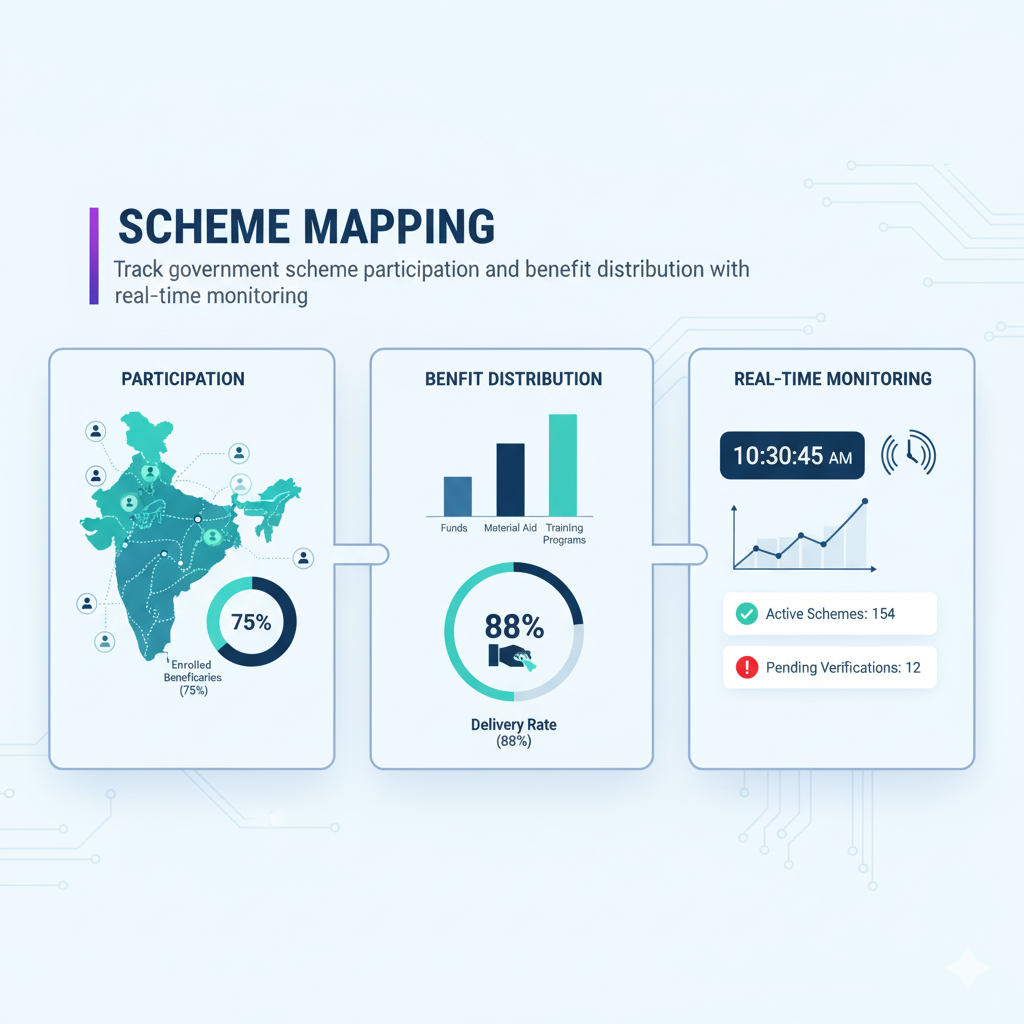
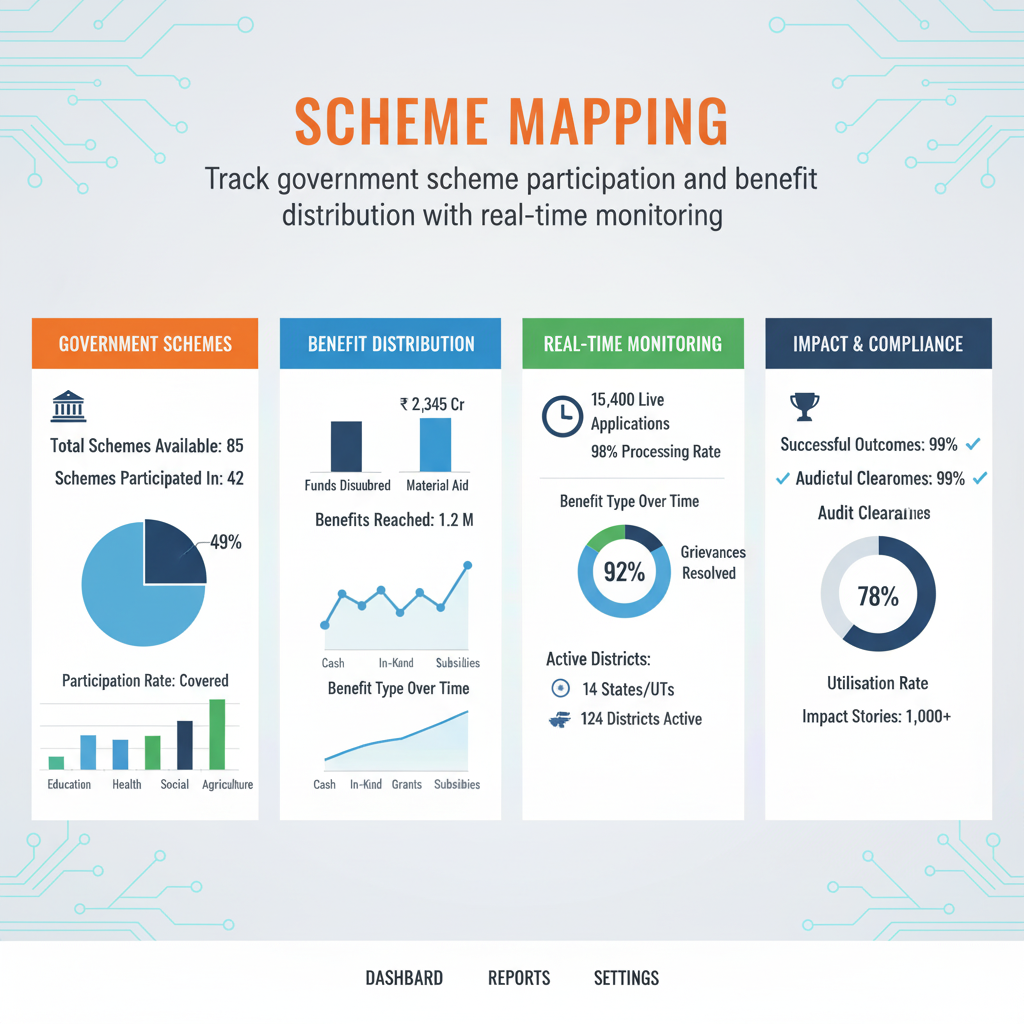
Add interactive image gallery with feature visualizations
Introduces an `InteractiveGallery` component to `src/pages/Index.tsx`, displaying images and descriptions for features like "Campus Events & Interactive Map" and "Scheme Mapping Dashboard". Includes new images and a component definition for `InteractiveGallery.tsx`.

Replit-Commit-Author: Agent
Replit-Commit-Session-Id: 71f993bb-9128-42ce-839f-6b6f3d9e548e
Replit-Commit-Checkpoint-Type: full_checkpoint
Replit-Commit-Screenshot-Url: https://storage.googleapis.com/screenshot-production-us-central1/73bd11d9-ef9e-4923-ab9e-70b18583f109/71f993bb-9128-42ce-839f-6b6f3d9e548e/cB6vz3G

diff --git a/src/components/InteractiveGallery.tsx b/src/components/InteractiveGallery.tsx
@@ -1,0 +1,142 @@
+import { useState } from "react";
+import { Dialog, DialogContent, DialogTitle } from "@/components/ui/dialog";
+import { Card, CardContent } from "@/components/ui/card";
+import { motion } from "framer-motion";
+import { Maximize2, MapPin, BarChart } from "lucide-react";
+
+const galleryItems = [
+  {
+    id: 1,
+    title: "Campus Events & Interactive Map",
+    description: "Navigate through campus events, library timings, and department success metrics with an interactive map interface",
+    image: "/campus-events.png",
+    icon: MapPin,
+    color: "from-green-500 to-emerald-600"
+  },
+  {
+    id: 2,
+    title: "Scheme Mapping Dashboard",
+    description: "Track government scheme participation and benefit distribution with real-time monitoring and comprehensive analytics",
+    image: "/scheme-mapping.png",
+    icon: BarChart,
+    color: "from-orange-500 to-red-600"
+  }
+];
+
+export const InteractiveGallery = () => {
+  const [selectedImage, setSelectedImage] = useState<string | null>(null);
+  const [selectedTitle, setSelectedTitle] = useState<string>("");
+
+  const handleImageClick = (image: string, title: string) => {
+    setSelectedImage(image);
+    setSelectedTitle(title);
+  };
+
+  return (
+    <section className="py-20 bg-gradient-to-b from-white to-gray-50">
+      <div className="container mx-auto px-4">
+        <motion.div
+          initial={{ opacity: 0, y: 20 }}
+          whileInView={{ opacity: 1, y: 0 }}
+          transition={{ duration: 0.6 }}
+          viewport={{ once: true }}
+          className="text-center mb-12"
+        >
+          <h2 className="text-4xl md:text-5xl font-bold mb-4 bg-gradient-to-r from-primary to-blue-600 bg-clip-text text-transparent">
+            Interactive Features Gallery
+          </h2>
+          <p className="text-lg text-gray-600 max-w-2xl mx-auto">
+            Explore our comprehensive platform features through interactive visualizations
+          </p>
+        </motion.div>
+
+        <div className="grid md:grid-cols-2 gap-8 max-w-6xl mx-auto">
+          {galleryItems.map((item, index) => {
+            const Icon = item.icon;
+            return (
+              <motion.div
+                key={item.id}
+                initial={{ opacity: 0, y: 30 }}
+                whileInView={{ opacity: 1, y: 0 }}
+                transition={{ duration: 0.5, delay: index * 0.2 }}
+                viewport={{ once: true }}
+              >
+                <Card 
+                  className="group cursor-pointer overflow-hidden hover:shadow-2xl transition-all duration-300 border-2 hover:border-primary/50"
+                  onClick={() => handleImageClick(item.image, item.title)}
+                >
+                  <CardContent className="p-0">
+                    <div className="relative">
+                      <div className={`absolute inset-0 bg-gradient-to-br ${item.color} opacity-10 group-hover:opacity-20 transition-opacity duration-300`} />
+                      
+                      <div className="relative overflow-hidden aspect-video">
+                        <img
+                          src={item.image}
+                          alt={item.title}
+                          className="w-full h-full object-cover transform group-hover:scale-105 transition-transform duration-500"
+                          loading="lazy"
+                        />
+                        
+                        <div className="absolute inset-0 bg-black/0 group-hover:bg-black/40 transition-all duration-300 flex items-center justify-center">
+                          <motion.div
+                            initial={{ scale: 0 }}
+                            whileHover={{ scale: 1 }}
+                            className="bg-white rounded-full p-4 shadow-lg opacity-0 group-hover:opacity-100 transition-opacity duration-300"
+                          >
+                            <Maximize2 className="w-8 h-8 text-primary" />
+                          </motion.div>
+                        </div>
+                      </div>
+
+                      <div className="p-6 bg-white">
+                        <div className="flex items-start gap-3 mb-3">
+                          <div className={`p-3 rounded-lg bg-gradient-to-br ${item.color}`}>
+                            <Icon className="w-6 h-6 text-white" />
+                          </div>
+                          <div className="flex-1">
+                            <h3 className="text-xl font-semibold mb-2 group-hover:text-primary transition-colors">
+                              {item.title}
+                            </h3>
+                            <p className="text-gray-600 text-sm leading-relaxed">
+                              {item.description}
+                            </p>
+                          </div>
+                        </div>
+                        
+                        <div className="mt-4 flex items-center text-primary font-medium text-sm">
+                          <span>Click to view full size</span>
+                          <motion.span
+                            animate={{ x: [0, 5, 0] }}
+                            transition={{ repeat: Infinity, duration: 1.5 }}
+                            className="ml-2"
+                          >
+                            →
+                          </motion.span>
+                        </div>
+                      </div>
+                    </div>
+                  </CardContent>
+                </Card>
+              </motion.div>
+            );
+          })}
+        </div>
+      </div>
+
+      <Dialog open={!!selectedImage} onOpenChange={() => setSelectedImage(null)}>
+        <DialogContent className="max-w-7xl w-full p-2 bg-white">
+          <DialogTitle className="sr-only">{selectedTitle}</DialogTitle>
+          {selectedImage && (
+            <div className="relative">
+              <img
+                src={selectedImage}
+                alt={selectedTitle}
+                className="w-full h-auto rounded-lg"
+              />
+            </div>
+          )}
+        </DialogContent>
+      </Dialog>
+    </section>
+  );
+};

diff --git a/src/pages/Index.tsx b/src/pages/Index.tsx
@@ -5,6 +5,7 @@ import { AIFeatures } from "@/components/AIFeatures";
 import { RoleDashboards } from "@/components/RoleDashboards";
 import { DashboardPreview } from "@/components/DashboardPreview";
 import { GovernmentInitiatives } from "@/components/GovernmentInitiatives";
+import { InteractiveGallery } from "@/components/InteractiveGallery";
 import { Footer } from "@/components/Footer";
 import { GraduationCap, UserCircle, Building2, BarChart3 } from "lucide-react";
 import { Button } from "@/components/ui/button";
@@ -22,8 +23,7 @@ const Index = () => {
       <main>
         <Hero />
         <GovernmentInitiatives />
-
-
+        <InteractiveGallery />
         <Features />
         <AIFeatures />
         <RoleDashboards />
